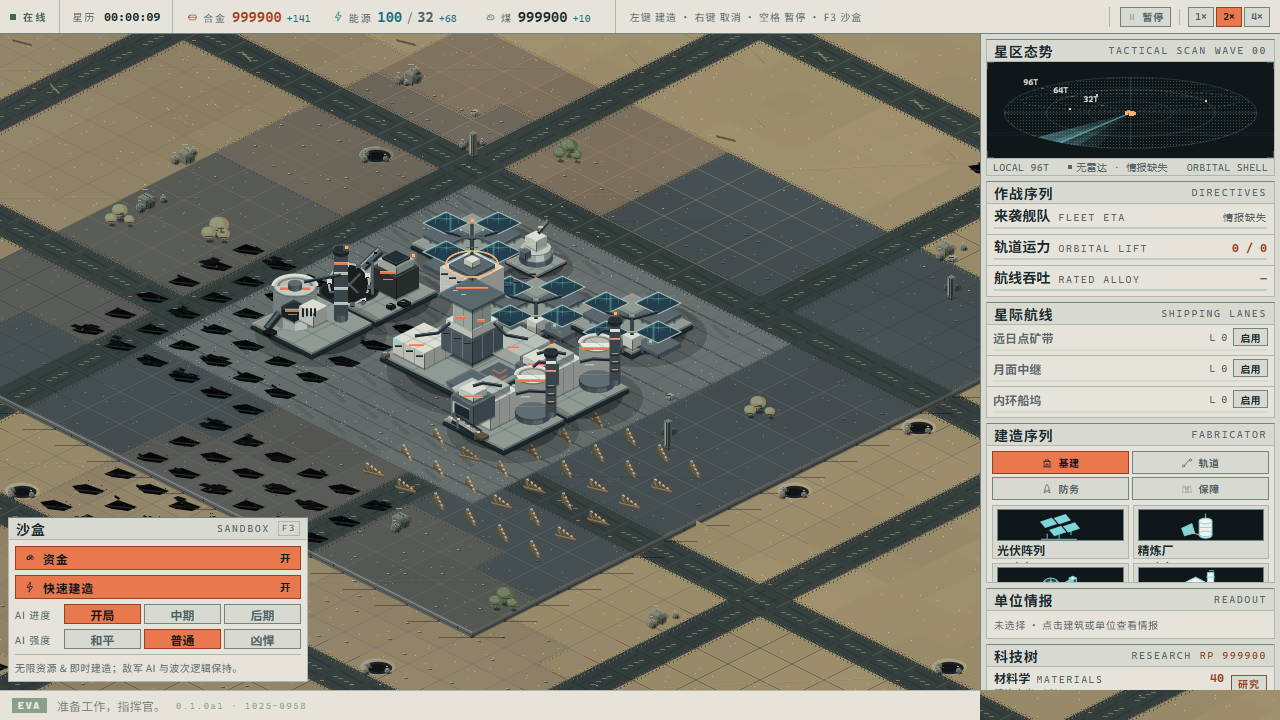
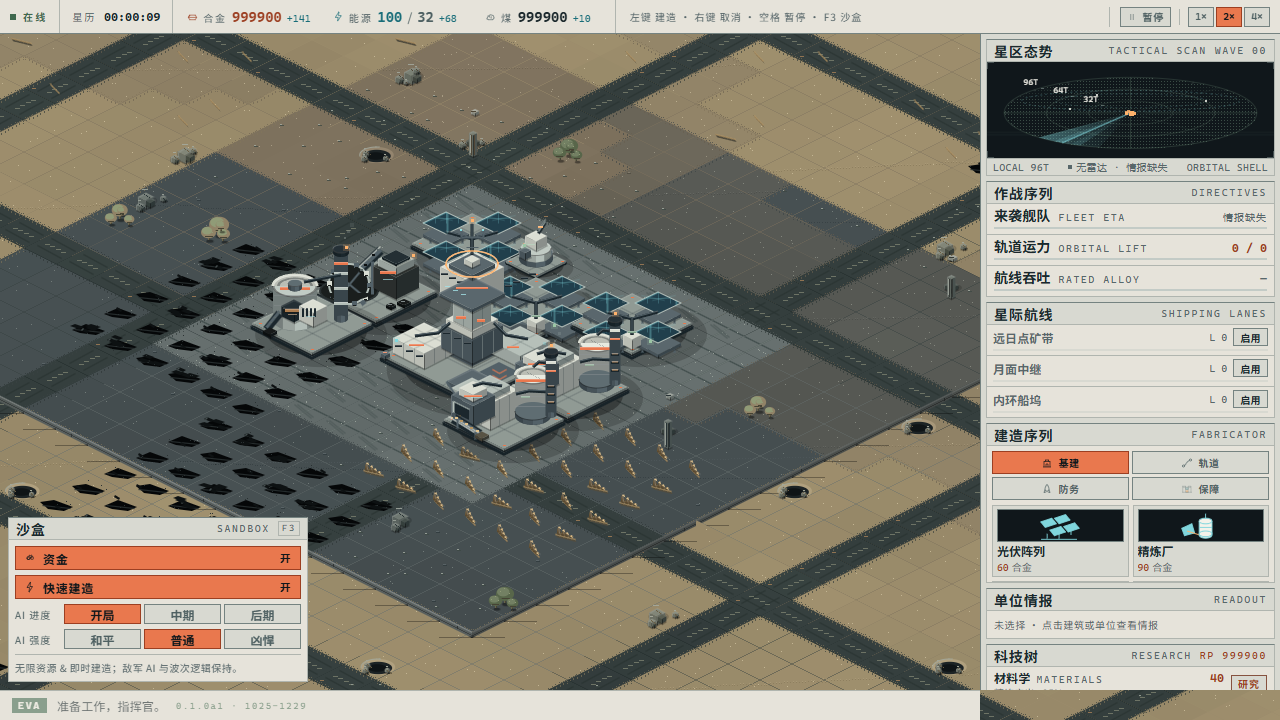
fix: address aerospace review findings

Changed region(s): [[0.7812, 0.7333, 1.0, 0.825]]

diff --git a/web/src/ui/fabricator.css b/web/src/ui/fabricator.css
@@ -5,11 +5,11 @@
 .oc-fab__tab svg { width: 12px; height: 12px; }
 .oc-fab__tab:hover:not(.is-active) { background: var(--oc-panel-3); color: var(--oc-ink); }
 .oc-fab__tab.is-active { background: var(--oc-primary-fill); border-color: var(--oc-primary); color: var(--oc-void); }
-.oc-fab__cards { flex: 1 1 auto; min-height: 0; display: grid; grid-template-columns: 1fr 1fr; grid-auto-rows: minmax(68px, 1fr); gap: 4px; padding: 0 5px 4px; }
+.oc-fab__cards { flex: 1 1 auto; min-height: 0; display: grid; grid-template-columns: 1fr 1fr; grid-auto-rows: minmax(72px, 1fr); gap: 4px; padding: 0 5px 4px; }
 .oc-fab__empty { grid-column: 1 / -1; align-self: start; display: grid; place-items: center; min-height: 58px; border: 1px solid var(--oc-line); color: var(--oc-ink-3); font-size: var(--oc-fs-sm); letter-spacing: .12em; }
 .oc-card { display: grid; grid-template-rows: minmax(32px, 1fr) 14px 13px; gap: 2px; min-width: 0; padding: 3px 4px; background: var(--oc-panel-2); border: 1px solid var(--oc-line); color: var(--oc-ink); font-family: inherit; text-align: left; }
 .oc-card:hover { background: var(--oc-panel-3); border-color: var(--oc-line-bright); }
-.oc-card.is-locked { opacity: .55; }
+.oc-card.is-locked { color: var(--oc-ink-2); }
 .oc-card.is-locked:hover { background: var(--oc-panel-2); border-color: var(--oc-line); }
 .oc-card.is-placing { border-color: var(--oc-primary); outline: 1px solid var(--oc-primary); outline-offset: -1px; }
 .oc-card__art { display: grid; place-items: center; min-height: 32px; background: var(--oc-void); border: 1px solid var(--oc-line-bright); color: var(--oc-signal-function); }
@@ -20,8 +20,8 @@
 .oc-card__price { color: var(--oc-primary); }
 .oc-card__unit { font-family: var(--oc-font-sans); font-size: 10px; color: var(--oc-ink-3); }
 .oc-card__fuel { color: var(--oc-ink-2); }
-.oc-card.is-locked .oc-card__price { color: var(--oc-primary-dim); }
+.oc-card.is-locked .oc-card__price { color: var(--oc-primary); }
 .oc-fab__place { display: flex; align-items: center; gap: 6px; flex: 0 0 auto; height: 20px; padding: 0 6px; background: var(--oc-panel-2); border-top: 1px solid var(--oc-line); font-size: 10px; letter-spacing: .06em; color: var(--oc-ink-2); }
 .oc-fab__place-tag { font-family: var(--oc-font-mono); font-size: 10px; letter-spacing: .16em; color: var(--oc-primary); }
 .oc-fab__place-hint { margin-left: auto; color: var(--oc-ink-3); }
-@media (max-height: 950px) { .oc-fab__cards { grid-auto-rows: 64px; } }
+@media (max-height: 950px) { .oc-fab__cards { grid-auto-rows: 72px; } }

diff --git a/web/tests/terrain-style.test.ts b/web/tests/terrain-style.test.ts
@@ -2,12 +2,15 @@ import { describe, expect, it } from 'vitest';
 
 import { companionMask, rand01, valueNoise } from '../../web/src/render/terrain/noise';
 import { hasTileSeam } from '../../web/src/render/terrain/surface-rules';
+import { wrapSpan } from '../../web/src/render/torus';
 
 function referenceMask(tx: number, ty: number, mix: number): boolean {
+  const x = wrapSpan(tx, 10240);
+  const y = wrapSpan(ty, 10240);
   const v =
-    valueNoise(tx, ty, 12, 0x51e7) * 0.76 +
-    valueNoise(tx, ty, 5, 0x9e37) * 0.24 +
-    (rand01(tx, ty, 0x77a1) - 0.5) * 48;
+    valueNoise(x, y, 10, 0x51e7) * 0.76 +
+    valueNoise(x, y, 5, 0x9e37) * 0.24 +
+    (rand01(x, y, 0x77a1) - 0.5) * 48;
   return mix > 0 && v > 700 - mix * 0.5;
 }
 
@@ -29,6 +32,17 @@ describe('continuous terrain rules', () => {
     for (const [tx, ty] of points) {
       for (const mix of [1, 170, 240, 500]) {
         expect(companionMask(tx, ty, mix)).toBe(referenceMask(tx, ty, mix));
+      }
+    }
+  });
+
+  it('keeps companion patches continuous across the 10240-tile torus', () => {
+    const points: readonly (readonly [number, number])[] = [
+      [0, 0], [1, 7], [-1, -33], [10239, 10239], [17, -10239], [-10237, 10247],
+    ];
+    for (const [tx, ty] of points) {
+      for (const mix of [170, 240]) {
+        expect(companionMask(tx, ty, mix)).toBe(companionMask(tx + 10240, ty - 10240, mix));
       }
     }
   });

diff --git a/web/src/render/terrain/noise.ts b/web/src/render/terrain/noise.ts
@@ -7,6 +7,7 @@
  */
 
 import type { Pt } from '../primitives';
+import { wrapSpan } from '../torus';
 
 /** 32-bit hash of two integers. */
 export function hash32(x: number, y: number): number {
@@ -46,16 +47,18 @@ export function valueNoise(x: number, y: number, scale: number, seed: number): n
 }
 
 /**
- * Continuous companion patches on 12/5-tile lattices, with only a narrow
- * per-tile edge perturbation. The bake's majority filter removes isolated
- * pixels; `mix` is the material recipe's companionMix (0..1000).
+ * Continuous companion patches on 10/5-tile lattices. Both scales divide the
+ * 10240-tile world span, so value-noise cells meet exactly across the torus.
+ * The bake's majority filter removes isolated pixels; `mix` is companionMix.
  */
 export function companionMask(tx: number, ty: number, mix: number): boolean {
   if (mix <= 0) return false;
+  const x = wrapSpan(tx, 10240);
+  const y = wrapSpan(ty, 10240);
   const v =
-    valueNoise(tx, ty, 12, 0x51e7) * 0.76 +
-    valueNoise(tx, ty, 5, 0x9e37) * 0.24 +
-    (rand01(tx, ty, 0x77a1) - 0.5) * 48;
+    valueNoise(x, y, 10, 0x51e7) * 0.76 +
+    valueNoise(x, y, 5, 0x9e37) * 0.24 +
+    (rand01(x, y, 0x77a1) - 0.5) * 48;
   return v > 700 - mix * 0.5;
 }
 

diff --git a/web/tests/hud-art.test.ts b/web/tests/hud-art.test.ts
@@ -1,6 +1,7 @@
 import { describe, expect, it } from 'vitest';
 
 import { BUILDING_KEYS, UNIT_KEYS } from '../../web/src/generated/content-keys';
+import { isoBox } from '../../web/src/ui/icon-kit';
 import { BUILDING_ICONS, UNIT_ICONS } from '../../web/src/ui/icons';
 import { buildingCentre } from '../../web/src/ui/radar-layout';
 
@@ -29,5 +30,12 @@ describe('aerospace command HUD assets', () => {
     expect(buildingCentre(10, 20, 3)).toEqual([11.5, 21.5]);
     expect(buildingCentre(10, 20, 2)).toEqual([11, 21]);
     expect(buildingCentre(-1, 0, 1)).toEqual([-0.5, 0.5]);
+  });
+
+  it('drops both isometric box side faces by exactly their height', () => {
+    const art = isoBox(24, 12, 13, 3, 3);
+    expect(art).toContain('M24 9L37 15.5L24 22L11 15.5Z');
+    expect(art).toContain('M11 15.5L24 22L24 25L11 18.5Z');
+    expect(art).toContain('M24 22L37 15.5L37 18.5L24 25Z');
   });
 });

diff --git a/web/src/ui/icon-kit.ts b/web/src/ui/icon-kit.ts
@@ -18,7 +18,7 @@ export function poly(points: readonly (readonly [number, number])[], fill = 'non
 export function isoBox(x: number, y: number, w: number, h: number, z: number): string {
   const a = y - z;
   const b = a + w / 2;
-  const base = y + w / 2;
+  const base = a + w;
   return [
     poly([[x, a], [x + w, b], [x, a + w], [x - w, b]], CERAMIC),
     poly([[x - w, b], [x, a + w], [x, base + h], [x - w, b + h]], 'currentColor'),

diff --git a/web/src/render/world-palette.ts b/web/src/render/world-palette.ts
@@ -6,7 +6,7 @@
  * the same four signal roles. Mineral surfaces stay restrained; ceramic facilities
  * and sparse engineering signals carry the strongest contrast.
  *
- * Companion materials form continuous 12/5-tile patches; natural seams are gone
+ * Companion materials form continuous 10/5-tile patches; natural seams are gone
  * and texture phases live in world space rather than restarting at tile edges.
  */
 

diff --git a/web/src/ui/intel.css b/web/src/ui/intel.css
@@ -305,9 +305,6 @@
   .oc-rail > .oc-panel--fab {
     min-height: 160px;
   }
-  .oc-fab__cards {
-    grid-auto-rows: 54px;
-  }
   .oc-tech {
     padding: 2px 7px;
   }

diff --git a/README.md b/README.md
@@ -174,7 +174,7 @@ Rust 产出的 `snapshot.bin / commands.bin / boot.bin` 金标准固件被 `vite
 |---|---|---|---|
 | 1 | 2:1 等距正交、体块由基本体拼成 | `render/iso.ts` 固定 64×32；`render/primitives.ts` 只提供 box / cylinder / dome / prism | ✅ 无透视、无旋转；平移与 0.75×–2.5× 缩放只动取景框，不改变投影（N-06） |
 | 2 | 统一左上光；三面 1.0/0.86/0.68 + 1px 亮棱暗棱；短柔阴影偏右下 | `tokens.ts LIGHT`；`primitives.ts` 的 `box/cylinder/dome/prism/contactShadow` | ✅ 单一只 `LIGHT` 常量，无第二套明暗；阴影恒偏右下（左右归属的裁决见 decisions C-01） |
-| 3 | 自然地连续：世界坐标岩层/风纹/水波，12/5 格 companion 斑块；人工网格只属于道路与地坪 | `render/terrain/surface-rules.ts`、`terrain/surface-paint.ts`、`terrain/noise.ts` | ✅ 15 种材质无逐格暗缝，跨 chunk 与环面相位一致；矿脉/煤矿保留材质差异 |
+| 3 | 自然地连续：世界坐标岩层/风纹/水波，10/5 格 companion 斑块；人工网格只属于道路与地坪 | `render/terrain/surface-rules.ts`、`terrain/surface-paint.ts`、`terrain/noise.ts` | ✅ 15 种材质无逐格暗缝，跨 chunk 与环面相位一致；矿脉/煤矿保留材质差异 |
 | 4 | 暖白工程纸 HUD + 深色数据视窗 + 1px 描边；禁玻璃/模糊/泛光/大圆角 | `ui/hud.css`、`ui/panels.css`、`ui/radar-palette.ts` | ✅ 浅底文字与深底 SIGNAL 分离；无 `backdrop-filter`、无 `filter: blur`、无 `box-shadow` 光晕；`border-radius: 0` |
 | 5 | 低饱和矿质材质；主强调/功能/状态/危险四色纪律，危险色仅警报与敌方 | `tokens.ts PALETTE + SIGNAL` 唯一色源 | ✅ 浅底用 PALETTE，深视窗与世界灯带用同色相 SIGNAL；陶瓷白只用于实体 |
 | 6 | 中文为主体（700），英文宽字距小号；数字等宽；三档字号；1px 分隔线 | `ui/hud.css` + `ui/*.ts` | ✅ 10/12/14 + 26 显示位；`.oc-num` 系列 `tabular-nums`；分隔线全为 1px |

diff --git a/docs/design.md b/docs/design.md
@@ -97,7 +97,7 @@ top   1.00   屏幕左面 0.86（受光）   屏幕右面 0.68（背光）
 |---|---|---|
 | 1 | 裸 `extern "C"` ABI，不用 wasm-bindgen / wasm-pack | 协议本来就是二进制，桥接只需「写字节-调用-读字节」；构建只剩一条 cargo 命令，无工具链版本漂移 |
 | 2 | postcard + 手写 TS 读取器 + **金标准固件测试** | 满足「禁止每 tick JSON」，且 Rust 写出的字节被 TS 测试逐字段校验，两边不可能悄悄漂移 |
-| 3 | 地表走「连续矿质材质」而非逐格暗缝与饱和草地 | 12/5 格 companion 斑块、世界坐标纹理相位与稀疏 speck 保留大形；人工网格只属于道路和地坪 |
+| 3 | 地表走「连续矿质材质」而非逐格暗缝与饱和草地 | 10/5 格 companion 斑块、世界坐标纹理相位与稀疏 speck 保留大形；人工网格只属于道路和地坪 |
 | 4 | 光源方向按「左上光 + 阴影右下」执行 | 规范里「顶/右/左 = 1.0/0.86/0.68」的面序与左上光在镜像投影下互斥；明度级差 1.0/0.86/0.68 完整保留，只交换左右归属（见 decisions #1） |
 | 5 | 施工位/机位：正交投影固定，但允许平移与正交缩放 | 不变量 1 约束的是**投影无透视无旋转**，不是禁止平移/缩放；10240² 环面按视口流送区块，取景必须能自由移动 |
 | 6 | 字体用系统栈，不打包 Noto Sans SC | 零外部请求（禁位图/外部资源精神），Windows 自带微软雅黑，中文不会乱码 |

diff --git a/docs/superpowers/specs/2026-10-24-aerospace-visual-redesign-design.md b/docs/superpowers/specs/2026-10-24-aerospace-visual-redesign-design.md
@@ -94,7 +94,7 @@
 
 沿用 `ChunkStore → TilePainter → ChunkSurface` 的流送与分帧烘焙，不在每帧计算地形纹理。
 
-- 将 companion mask 从当前 4/2 格高频斑块调整为约 12/5 格的连续变化，降低逐格随机边缘；保持确定性和跨 chunk/环面一致。
+- 将 companion mask 从当前 4/2 格高频斑块调整为10/5 格（均整除 10240，保证环面周期）的连续变化，降低逐格随机边缘；保持确定性和跨 chunk/环面一致。
 - 删除自然地表通用的逐格暗缝。仅 `apron`、`road` 等人工材质保留接缝；材质交界保留稀疏、窄的混合边。
 - 删除玄武岩、风化层、苔地、沙地上每格重复的半格矩形“印章”。裂纹、风纹、斑块和岩层相位必须由世界坐标决定，跨格连续。
 - 高频 speck 总量减少约 50–70%；细节集中在矿脉、崖壁、道路和设施附近，留白也是材质的一部分。

diff --git a/docs/decisions.md b/docs/decisions.md
@@ -547,7 +547,7 @@ chunk 生成摘要 `0xD8CE_688B→0xBAEE_0655`（家所在 chunk 的着陆叠加
 **改了什么**：世界与 HUD 统一重做，而不是只换一套颜色。暖白工程纸面板承载文字与控制，
 雷达、建筑图标和单位肖像保留 `void` 深色显示窗；`PALETTE` 管理浅底文字，`SIGNAL` 管理
 深底与世界灯带。设施使用陶瓷白装甲、石墨结构、国际橙安全漆，敌方保留暗红识别。自然地
-取消逐格暗缝，companion mask 改为 12/5 格连续斑块，岩层、风纹与水波使用世界坐标相位。
+取消逐格暗缝，companion mask 改为 10/5 格连续斑块，岩层、风纹与水波使用世界坐标相位。
 
 16 类建筑全部拆成 `body / motion / bounds / healthY`：静态主体进入独立 LRU 画布缓存，
 预算 8 Mpx（约 32 MiB），raster scale 按 dpr×zoom 以 0.5 档量化并限制在 1–3；动态部件、
